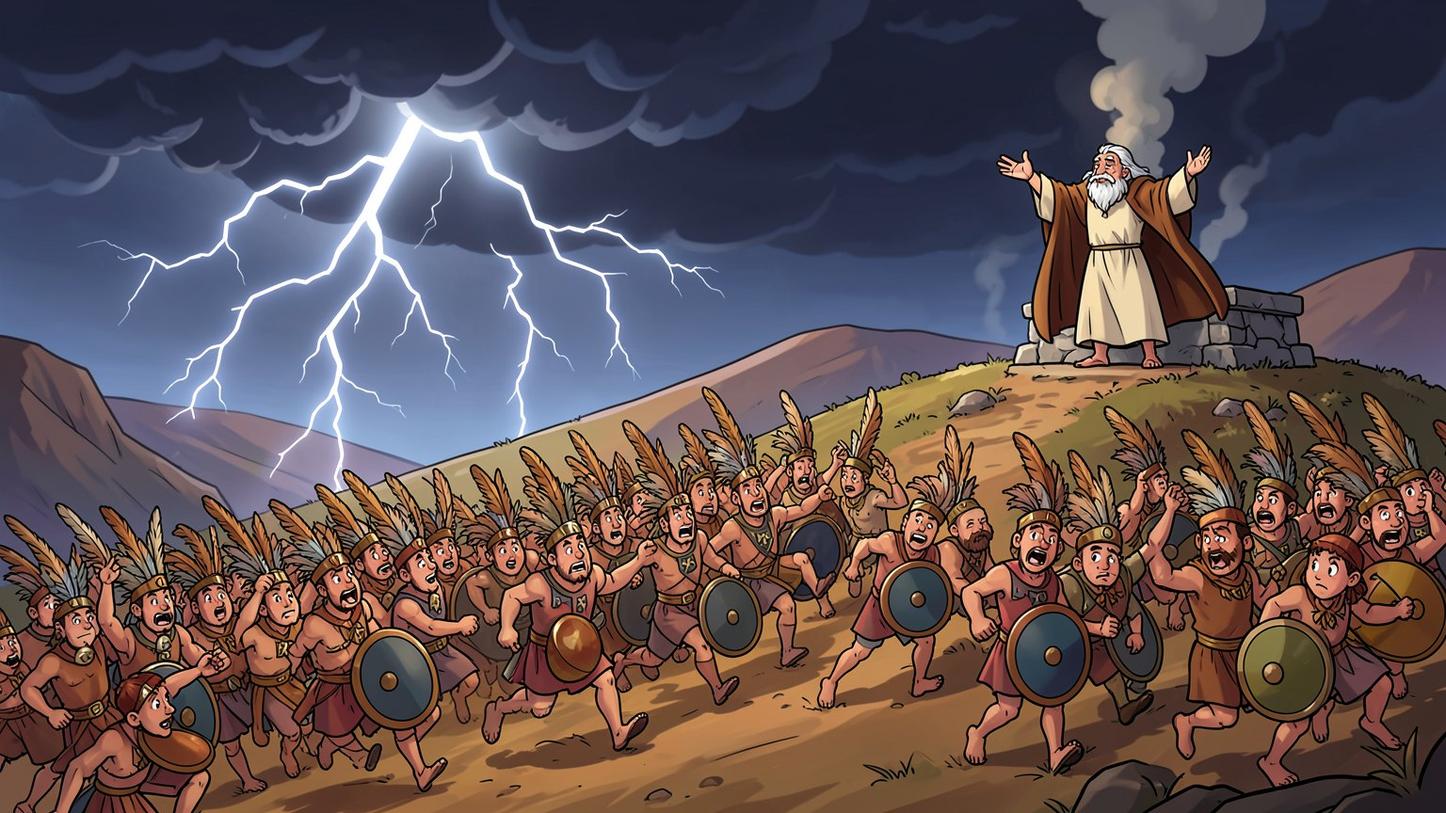
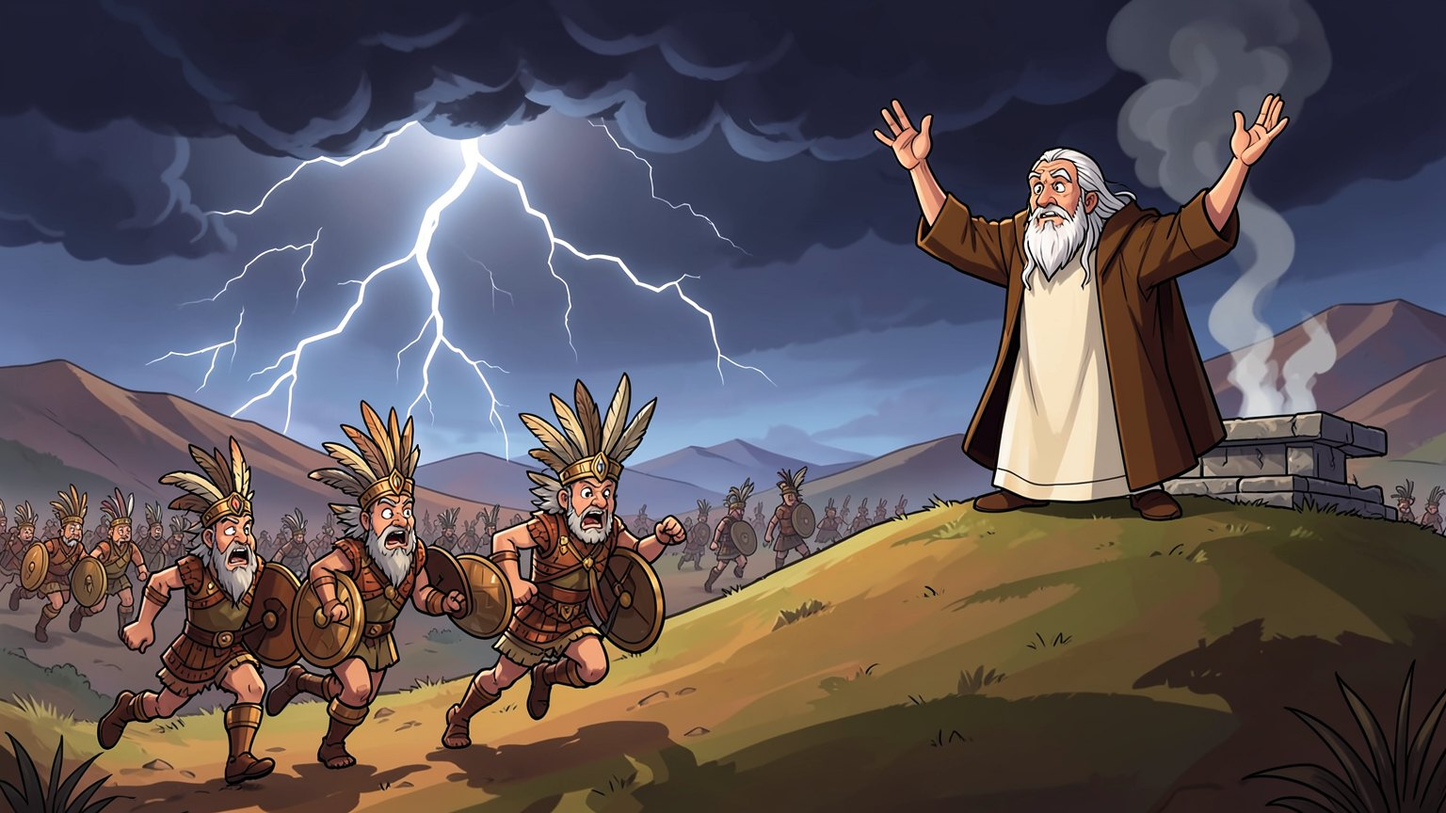
v1.11.1: 다윗을 물매의 명수이자 막는 영웅으로, 갈렙 기술 이름 맞바꾸기, 13·14 삽화 손 다시 그리기
- 다윗: 적을 셋까지 막으며 물매를 던짐(막는 중에도, 230, 하늘 가능), 가끔 '이마에!' 두 배 반, 물매와 막대기는 큰 적에게 두 배(특성 '사자와 곰도 쳤은즉'). 체력 330·방어 0.25·막대기 18. 기술 '이마에 박히매'(가장 강한 적에게 큰 돌), 수금은 아군도 회복, 여호와의 이름으로는 받는 피해 감소, 돌 다섯은 레벨에 따라 세지고 남은 돌은 가장 강한 적에게. 가드 사람 잇대는 그대로
- 같은 레벨 비교(13을 어렵게): 다윗 13.0, 갈렙 8.0, 모세 3.3 (전에는 14에서 다윗 7.7, 갈렙 14)
- 갈렙: 표적 기술 '능히 이기리라'(민 13:30), 화살비 궁극기 '이 산지를 내게 주소서'(수 14:12)
- 14 엘라 골짜기: 다윗이 세져 체력 배율 2.3, 골리앗 0.39로 다시 맞춤(탑 13개 평균 14.3, 11개 12.5)
- 삽화: 손과 팔이 이상한 8장(s13a·s13f·s13g·v13a·v13c·s14a·s14b·s14g)을 사람마다 손 자리를 정해 다시 그림
- 앱 1.11.1(22)

diff --git a/index.html b/index.html
@@ -316,7 +316,7 @@ body.force #rotate{display:none!important}
     <h1 class="logo"><span class="a">Kingdom of God</span><span class="b">Old Testament</span></h1>
     <p class="tsub">하나님의 나라 · 구약</p>
     <div class="row" style="margin-top:.6em;font-size:1.35em"><button class="btn" id="bStart">시작하기</button><button class="btn" id="bCont">계속하기</button><button class="btn wood" id="bCodexT">두루마리</button></div>
-    <p class="tnote">v1.11 · 1장 약속부터 5장 목동이 왕이 되다까지 (방주부터 엘라 골짜기까지)</p>
+    <p class="tnote">v1.11.1 · 1장 약속부터 5장 목동이 왕이 되다까지 (방주부터 엘라 골짜기까지)</p>
   </section>
   <section id="sSlots" class="scr" hidden>
     <div class="card slots"><h2 id="slotH">계속하기</h2><p class="sub" id="slotSub"></p><div id="slotList"></div><div class="row"><button class="btn" id="slotNew" hidden>새 이야기 시작</button><button class="btn wood" id="slotBack">돌아가기</button></div></div>
@@ -654,21 +654,21 @@ HEROES.joshua={name:'여호수아',line:'양치기',hp:300,armor:.25,dmg:20,rate
 HEROES.caleb={name:'갈렙',line:'파수꾼',hp:250,armor:.1,dmg:15,rate:.75,range:175,speed:88,melee:false,
   look:{skin:'#d39a68',cloth:'#6f8a4a',cloth2:'#c9a46a',head:'cloth',hc:'#efe3c4',beard:'#3a2614',item:'bow'},
   trait:{name:'정탐',ref:'민 13:17',desc:'멀리 옮기라고 하면 순식간에 달려가요.'},
-  s1:{name:'이 산지를 내게 주소서',ref:'수 14:12',cd:12,desc:'가장 강한 적에게 표적을 붙여요. 표적이 붙은 적은 받는 피해가 커져요.'},
+  s1:{name:'능히 이기리라',ref:'민 13:30',cd:12,desc:'가장 강한 적에게 표적을 붙여요. 표적이 붙은 적은 받는 피해가 커져요.'},
   s2:{name:'그들을 두려워하지 말라',ref:'민 14:9',cd:15,desc:'곁의 양치기와 문지기의 기절을 풀고, 6초 동안 곁의 탑과 병사가 더 빨리 공격해요. 그동안 곁의 탑은 북소리를 듣지 않아요.'},
   passive:{name:'여전히 강건하니',ref:'수 14:11',desc:'체력이 낮을수록 활을 더 빨리 쏴요.'},
-  ult:{name:'능히 이기리라',short:'능히<br>이기리라',ref:'민 13:30',cd:45,desc:'누른 곳에 화살비가 쏟아져 넓은 범위의 적을 여러 번 쳐요.'},
+  ult:{name:'이 산지를 내게 주소서',short:'이 산지를<br>내게 주소서',ref:'수 14:12',cd:45,desc:'누른 곳에 화살비가 쏟아져 넓은 범위의 적을 여러 번 쳐요.'},   // 10-15 사용자: 화살비가 쏟아지는 궁극기가 '이 산지를 내게 주소서'
   title:'여호와를 온전히 따른 사람 (민 14:24)',
   say:'“우리가 곧 올라가서 그 땅을 취하자 능히 이기리라”',sayRef:'민 13:30',
   man:'갈렙은 열두 정탐꾼 가운데 여호수아와 함께 하나님을 믿은 사람이에요(민 14:6–9). 하나님은 "내 종 갈렙은 그 마음이 그들과 달라서 나를 온전히 따랐은즉"이라고 하셨어요(민 14:24). 여든다섯 살에도 "이 산지를 내게 주소서" 하며 거인들이 사는 헤브론을 맡았어요(수 14:10–12).',jesus:'그나스 사람 갈렙이 유다 지파의 대표가 되었어요. 이방 사람도 하나님의 집 식구가 돼요 (민 32:12, 엡 2:19)'};
 // 다윗(양치기 영웅): 13→14 이야기에서 기름 부음을 받고 합류한다(삼상 16:13). 14 엘라 골짜기는 다윗만 나간다. 합류할 때 레벨 5("사자와 곰도 쳤은즉" 17:36)
-HEROES.david={name:'다윗',line:'양치기',hp:270,armor:.15,dmg:16,rate:.9,range:0,speed:66,melee:true,joinXp:2400,joinSk:{s1:1,s2:1,passive:2,ult:1},sling:{range:160,dmg:12,rate:1.2},
+HEROES.david={name:'다윗',line:'양치기',hp:330,armor:.25,dmg:18,rate:.9,range:0,speed:70,melee:true,joinXp:2400,joinSk:{s1:1,s2:1,passive:2,ult:1},sling:{range:230,dmg:16,rate:1.1,crit:.2,critK:2.5},block:2,   // v1.11.1: 물매의 명수이자 막는 영웅(막대기로 셋까지 막으면서 물매를 돌린다)
   look:{skin:'#e0a172',cloth:'#c9a46a',cloth2:'#8a6a42',head:'hair',hc:'#7a3e1e',item:'staff'},
-  trait:{name:'가드 사람 잇대',ref:'삼하 15:19–21',desc:'다윗이 직접 풀어 준 적은 15% 확률로 6초 동안 다윗 편에 서서 그 자리를 막아요. (보스·거인은 빼고)'},
-  s1:{name:'물매',ref:'삼상 17:40, 49',cd:10,desc:'멀리(260) 있는 가장 앞선 적에게 큰 돌을 던져 기절시켜요. 하늘의 적도 맞혀요.'},
-  s2:{name:'수금',ref:'삼상 16:23',cd:16,desc:'수금을 타면 둘레 적의 줄이 느슨해져요. 5초 동안 받는 피해가 커지고 공격이 약해져요.'},
-  passive:{name:'여호와의 이름으로',ref:'삼상 17:45',desc:'다윗은 고함에 기절하지 않아요. 2단계는 곁의 양치기·나실인·문지기·장정도, 3단계는 곁의 탑이 북소리도 듣지 않아요.'},
-  ult:{name:'매끄러운 돌 다섯',short:'매끄러운<br>돌 다섯',ref:'삼상 17:40',cd:50,desc:'가장 강한 적 다섯에게 차례로 큰 돌을 던져요.'},
+  trait:{name:'사자와 곰도 쳤은즉',ref:'삼상 17:34–36',desc:'막대기로 적을 셋까지 함께 막으면서 물매를 멀리(230) 던져요. 하늘의 적도 맞혀요. 물매와 막대기는 큰 적(거인·보스·낙타 기병·방패 든 자 같은)에게 두 배로 들어가고, 물맷돌은 다섯 번에 한 번쯤 이마에 박혀 두 배 반이 들어가요. 다윗이 직접 풀어 준 적은 가끔 6초 동안 다윗 편에 서서 막아요(가드 사람 잇대, 삼하 15:19–21).'},
+  s1:{name:'이마에 박히매',ref:'삼상 17:49',cd:10,desc:'멀리(300) 있는 가장 강한 적에게 큰 돌을 던져 큰 피해를 주고 기절시켜요(보스는 잠깐). 하늘의 적도 맞혀요.'},
+  s2:{name:'수금',ref:'삼상 16:23',cd:14,desc:'수금을 타면 둘레 아군이 낫고, 둘레 적의 줄이 느슨해져요. 5초 동안 적이 받는 피해가 커지고 공격이 약해져요.'},
+  passive:{name:'여호와의 이름으로',ref:'삼상 17:45',desc:'다윗은 고함에 기절하지 않고 받는 피해가 15% 줄어요(단계마다 더). 2단계는 곁의 양치기·나실인·문지기·장정도 고함에 기절하지 않고, 3단계는 곁의 탑이 북소리도 듣지 않아요.'},
+  ult:{name:'매끄러운 돌 다섯',short:'매끄러운<br>돌 다섯',ref:'삼상 17:40',cd:50,desc:'가장 강한 적 다섯에게 차례로 큰 돌을 던져요. 적이 다섯보다 적으면 남은 돌은 가장 강한 적에게 가요.'},
   title:'하나님의 마음에 맞는 사람 (행 13:22)',
   say:'“주의 종이 가서 저 블레셋 사람과 싸우리이다”',sayRef:'삼상 17:32',
   man:'하나님은 다윗을 "내 마음에 맞는 사람"이라 하셨어요(행 13:22). 사람들은 키와 용모를 보았지만 하나님은 중심을 보셨어요(삼상 16:7). 다윗은 자기 힘이 아니라 사자와 곰의 발톱에서 건지신 하나님을 의지했고(17:37), 훗날 큰 죄를 지었을 때 숨기지 않고 회개했어요(시 51).',jesus:'예수님은 다윗의 자손으로 오셨어요(마 1:1). 다윗이 온 이스라엘을 대신해 혼자 싸웠듯이 예수님은 우리 대신 싸워 이기신 참 다윗이에요 (히 2:14–15)'};
@@ -1159,7 +1159,7 @@ const STAGES={
         {art:'v13b',dur:6.5,title:'에벤에셀',verse:'사무엘이 돌을 취하여 미스바와 센 사이에 세워 이르되 여호와께서 여기까지 우리를 도우셨다 하고 그 이름을 에벤에셀이라 하니라 (삼상 7:12)',fx:'rays',snd:'event'},
         {art:'v13c',dur:6.5,title:'여호와의 손이 막으시매',verse:'여호와의 손이 사무엘이 사는 날 동안에 블레셋 사람을 막으시매 (삼상 7:13)',px:1,fx:'sparkle',snd:'victory'}]}},
   // 14 ★ 엘라 골짜기(삼상 17, 기획서 '14 엘라 골짜기 설계안'): 18번째 무리까지 골리앗은 결투터에서 18초마다 고함(17:16): 둘레 양치기 기절과 밤의 공포 둘 → 요나단의 활(삼하 1:22) → 19무리에 돌 다섯(17:40)과 골리앗·방패 든 자(17:41) → 엎드러지면 모든 줄이 끊어진다
-  14:{id:14,name:'엘라 골짜기',chap:'5장 · 목동이 왕이 되다',ref:'삼상 17',night:false,gold:1200,cap:4,heroes:['david'],hpMul:2.0,hpMulBy:{giant:.8,shield:.85,goliath:.5},dmgMul:1.8,gapT:20,skin:'philistine',   // v1.11 균형: 골리앗은 여울에서 진영까지 짧게 걸으므로 체력 1500(×2×.5)
+  14:{id:14,name:'엘라 골짜기',chap:'5장 · 목동이 왕이 되다',ref:'삼상 17',night:false,gold:1200,cap:4,heroes:['david'],hpMul:2.3,hpMulBy:{giant:.8,shield:.85,goliath:.39},dmgMul:1.8,gapT:20,skin:'philistine',   // v1.11.1 균형(다윗 강화 뒤): 골리앗은 여울에서 진영까지 짧게 걸으므로 체력 1350쯤(×2.3×.39)
     elah:{station:[740,560],ford:[620,412],gap:18,gap2:9,R:210,R2:160,stun:1.6,fearN:2,fearBoss:1,windup:1.5,riseT:1.6,waitT:6,
       jon:{x:522,y:272,range:250,rate:1,dmg:26},   // 그림(bg14 시드 1)의 시냇가 오른쪽 바위 위
       israel:[[178,334],[212,326],[246,338],[280,330],[314,342],[194,364],[228,356],[262,368],[296,360]],   // 이스라엘 전열(무장한 선봉 그림)
@@ -1226,8 +1226,8 @@ const CODEX=[
   {cat:'탑',name:'성막 문지기',k:'제사장 기술',verse:'악인의 장막에 사는 것보다 내 하나님의 성전 문지기로 있는 것이 좋사오니 (시 84:10)',desc:'제사장이 길에 세우는 풍채 좋은 문지기예요. 적을 막아서고, 쓰러지면 잠시 뒤 다시 서요. 3단계가 되면 한꺼번에 둘을 막아요. 눌러서 옮길 수 있어요.',deep:'문지기도 레위 사람이었고, 반열을 따라 성막 문을 지켰어요(대상 9:23, 26). 문지기 가운데는 용사가 많았다고 기록해요(대상 26:6). 하나님의 집 문을 지키는 것도 예배의 섬김이었어요. 게임의 문지기는 불러낸 것이 아니라 제사장이 세운 사람이에요.'},
   {cat:'하나님의 사람',name:'노아',k:'장인 영웅',verse:'노아는 여호와께 은혜를 입었더라 (창 6:8)',desc:'고페르 나무 방벽, 역청, 비둘기, 짐승들이 둘씩.',deep:HEROES.noah.man+' 예수님 찾기: '+HEROES.noah.jesus+'.'},
   {cat:'하나님의 사람',name:'모세',k:'레위인 영웅',verse:'모세가 손을 들면 이스라엘이 이기고 (출 17:11)',desc:'빛나는 얼굴, 반석의 물, 놋뱀, 손을 들다.',deep:HEROES.moses.man+' 예수님 찾기: '+HEROES.moses.jesus+'.'},
-  {cat:'하나님의 사람',name:'갈렙',k:'파수꾼 영웅 · 8 에드레이',verse:'내 종 갈렙은 그 마음이 그들과 달라서 나를 온전히 따랐은즉 (민 14:24)',desc:'정탐, 이 산지를 내게 주소서, 그들을 두려워하지 말라, 여전히 강건하니, 능히 이기리라.',deep:HEROES.caleb.man+' 예수님 찾기: '+HEROES.caleb.jesus+'.'},
-  {cat:'하나님의 사람',name:'다윗',k:'양치기 영웅 · 14 엘라 골짜기',verse:'내가 이새의 아들 다윗을 만나니 내 마음에 맞는 사람이라 내 뜻을 다 이루리라 (행 13:22)',desc:'가드 사람 잇대, 물매, 수금, 여호와의 이름으로, 매끄러운 돌 다섯.',deep:HEROES.david.man+' 예수님 찾기: '+HEROES.david.jesus+'.'},
+  {cat:'하나님의 사람',name:'갈렙',k:'파수꾼 영웅 · 8 에드레이',verse:'내 종 갈렙은 그 마음이 그들과 달라서 나를 온전히 따랐은즉 (민 14:24)',desc:'정탐, 능히 이기리라, 그들을 두려워하지 말라, 여전히 강건하니, 이 산지를 내게 주소서.',deep:HEROES.caleb.man+' 예수님 찾기: '+HEROES.caleb.jesus+'.'},
+  {cat:'하나님의 사람',name:'다윗',k:'양치기 영웅 · 14 엘라 골짜기',verse:'내가 이새의 아들 다윗을 만나니 내 마음에 맞는 사람이라 내 뜻을 다 이루리라 (행 13:22)',desc:'사자와 곰도 쳤은즉(물매의 명수), 이마에 박히매, 수금, 여호와의 이름으로, 매끄러운 돌 다섯.',deep:HEROES.david.man+' 예수님 찾기: '+HEROES.david.jesus+'.'},
   {cat:'하나님의 사람',name:'여호수아',k:'7 르비딤 영웅 · 9 여리고 · 10 기브온',verse:'모세가 여호수아에게 이르되 우리를 위하여 사람들을 택하여 나가서 아말렉과 싸우라 (출 17:9)',desc:'칼날로, 강하고 담대하라, 모세의 수종자, 여호와 닛시.',deep:HEROES.joshua.man+' 예수님 찾기: '+HEROES.joshua.jesus+'.'},
   {cat:'하나님의 사람',name:'연단',k:'영웅 성장',verse:'환난은 인내를, 인내는 연단을, 연단은 소망을 이루는 줄 앎이로다 (롬 5:3–4)',desc:'영웅은 싸울수록 경험이 쌓여 연단돼요. 레벨이 오르면 연단 점수를 받고, 싸움을 마친 뒤 지도의 연단 화면에서 기술을 키우거나 언제든 다시 배치할 수 있어요.',deep:'연단은 영웅이 스스로를 높이는 일이 아니라 하나님이 사람을 빚어 가시는 과정이에요. "너희 믿음의 확실함은 불로 연단하여도 없어질 금보다 더 귀하여"(벧전 1:7).'},
   {cat:'하나님의 사람',name:'아브람',k:'2·3 스테이지',verse:'아브람이 여호와를 믿으니 여호와께서 이를 그의 의로 여기시고 (창 15:6)',desc:'갈 바를 알지 못했지만 말씀을 따라 길을 떠난 사람이에요(히 11:8).',deep:'아브람이 의롭다 여김을 받은 건 공로가 아니라 믿음 때문이었어요. 바울은 이 구절로 은혜의 구원을 설명해요(롬 4:3–5).'},
@@ -1938,13 +1938,13 @@ function loseLives(n){if(G.over)return;G.lives=Math.max(0,G.lives-n);Snd.play('l
 function hurt(e,dmg,type,src){
   if(!alive(e))return;
   let m=1;if(type==='phys')m=1-(e.def.armor||0);else if(type==='holy')m=1-(e.def.mres||0);else if(type==='holyP')m=1-(e.def.mres||0)*2/3;
-  if(e.vuln>0)m*=1+(e.vulnK||.25);if(e.mark>0)m*=1+e.markK;   // 갈렙의 표적(수 14:12)
+  if(e.vuln>0)m*=1+(e.vulnK||.25);if(e.mark>0)m*=1+e.markK;   // 갈렙의 표적(민 13:30)
   if(e.type==='goliath'&&goliathShielded())m*=.5;   // 방패 든 자가 앞서 행하더라(삼상 17:7)
   let amt=dmg*m;
   if(e.shield>0){const a=Math.min(e.shield,amt);e.shield-=a;amt-=a;}
   e.hp-=amt;e.hitT=.12;
   if(e.type==='pharaoh'&&amt>0){e.hard.acc+=amt;if(e.hard.acc>=e.maxHp*.14&&e.hard.cd<=0&&e.hp>0){e.shield=e.maxHp*.07;e.hard.acc=0;e.hard.cd=9;Snd.play('shield');if(!G.hardTold){G.hardTold=true;toast('<b>완악한 마음</b><br>바로의 마음이 다시 완악해졌어요. 보호막은 한꺼번에 몰아쳐서 깨세요. (출 8:15)',6);}}}
-  if(src==='hero'&&amt>0)gainXP(Math.min(amt,e.hp+amt)*.4);
+  if(src==='hero'&&amt>0){G.hdmg=(G.hdmg||0)+Math.min(amt,e.hp+amt);gainXP(Math.min(amt,e.hp+amt)*.4);}   // G.hdmg: 영웅이 준 피해(균형 재기)
   if(e.hp<=0){freeEnemy(e);if(src==='hero'){gainXP(e.def.bounty*2);ittai(e);}}
 }
 function freeEnemy(e){
@@ -2043,7 +2043,7 @@ function mosesGuard(x,y){const h=G.hero;return h&&h.kind==='moses'&&h.state==='o
 function inRefuge(x,y){for(const z of G.zones)if(d2(x,y,z.x,z.y)<z.r*z.r)return true;return false;}
 const ENEMY_DMG=2.2;   // 막아선 병사·영웅이 실제로 쓰러질 만큼(10-11 사용자: 대치하다가 쓰러지지 않아 긴장감이 없다)
 function hitBlocker(b,dmg){
-  let m=1-(b.armor||0);{const gk=mosesGuard(b.x,b.y);if(gk)m*=gk;}if(b.role==='hero'&&b.kind==='joshua'&&G.hill&&G.hill.up)m*=.8;if(b.tw&&b.tw.line==='shep'&&has('shep',5)&&b.hp<b.max/3)m*=.7;const a=dmg*m*ENEMY_DMG*(G.S.dmgMul||1);b.hitT=.12;
+  let m=1-(b.armor||0);{const gk=mosesGuard(b.x,b.y);if(gk)m*=gk;}if(b.role==='hero'&&b.kind==='joshua'&&G.hill&&G.hill.up)m*=.8;if(b.role==='hero'&&b.kind==='david')m*=[1,.85,.78,.7][b.sk.passive||0];if(b.tw&&b.tw.line==='shep'&&has('shep',5)&&b.hp<b.max/3)m*=.7;const a=dmg*m*ENEMY_DMG*(G.S.dmgMul||1);b.hitT=.12;
   if(b.role==='unit'&&inRefuge(b.x,b.y)){b.hp=Math.max(1,b.hp-a);return;}
   b.hp-=a;if(b.hp<=0)blockerDown(b);
 }
@@ -2186,6 +2186,7 @@ function updProjs(dt){
     if(Ld<=st+4){p.done=true;
       if(tg&&alive(tg))hurt(tg,p.dmg,(p.k==='arrow'||p.k==='sling'||p.k==='harrow'||p.k==='snipe'||p.k==='hsling'||p.k==='hstone')?'phys':p.pierce?'holyP':'holy',p.k==='hbolt'||p.k==='harrow'||p.k==='hsling'||p.k==='hstone'?'hero':null);
       if(p.k==='hstone'){Snd.play('stoneHit');if(tg&&alive(tg)){const st=tg.def.boss?p.stunB:p.stun;if(st)tg.stun=Math.max(tg.stun,st);}}
+      if(p.k==='hsling'&&p.crit){Snd.play('stoneHit');floatText(p.x,p.y-30,'이마에!','#ffe9a8',12);if(tg&&alive(tg)&&!tg.def.boss)tg.stun=Math.max(tg.stun,.5);}   // 물맷돌이 이마에 박히매(삼상 17:49)
       if(p.k==='snipe')snipeHit(p,tg);
       if(p.k==='bolt'&&tg&&alive(tg)&&!tg.def.boss){tg.slowF=tg.slowT>0?Math.min(tg.slowF,.7):.7;tg.slowT=Math.max(tg.slowT,1.2);tg.lslow=1.2;}   // 레위인 빛살을 맞으면 잠깐 느려진다
       const holy=p.k==='bolt'||p.k==='hbolt';for(let i=0;i<(holy?6:3);i++)part('spark',p.tx,p.ty,rand(-60,60),rand(-60,30),.35,holy?'#fff3b0':'#ffffff',2);
@@ -2285,30 +2286,31 @@ function updHero(dt){
   h.swCd=Math.max(0,(h.swCd||0)-dt);
   if(tg&&h.D.melee&&h.swCd<=0){const cr=remaining(tg);let sw=null,sr=cr-(tg.state==='fight'?150:90);for(const e of G.enemies){if(!alive(e)||!e.def.block||e.blockedBy||e.state!=='walk')continue;if(d2(e.x,e.y,h.x,h.y)>108*108)continue;const rm=remaining(e);if(rm<sr){sr=rm;sw=e;}}if(sw){dropTarget(h);tg=null;h.swCd=2.5;}}
   if(!tg){const r=h.D.melee?108:42;let best=null,bd=1e9;for(const e of G.enemies){if(!alive(e)||!e.def.block||e.blockedBy)continue;if(d2(e.x,e.y,h.x,h.y)>r*r)continue;const sc=remaining(e)+Math.sqrt(d2(e.x,e.y,h.x,h.y))*.5;if(sc<bd){bd=sc;best=e;}}if(best){h.target=tg=best;best.blockedBy=h;h.side=Math.sign(h.x-best.x)||best.dir;}}
-  if(tg&&h.D.melee){h.extra=(h.extra||[]).filter(x=>alive(x)&&x.blockedBy===h);const cap=h.lv>=4?2:1;
+  if(tg&&h.D.melee){h.extra=(h.extra||[]).filter(x=>alive(x)&&x.blockedBy===h);const cap=h.D.block||(h.lv>=4?2:1);
     for(const x of h.extra)if(d2(x.x,x.y,h.x,h.y)>110*110){x.blockedBy=null;if(x.state==='fight')x.state='walk';}h.extra=h.extra.filter(x=>x.blockedBy===h);
     if(h.extra.length<cap)for(const e of G.enemies){if(h.extra.length>=cap)break;if(e===tg||!alive(e)||!e.def.block||e.blockedBy||e.state!=='walk')continue;if(d2(e.x,e.y,h.x,h.y)<46*46){e.blockedBy=h;h.extra.push(e);}}}
   if(!tg&&h.extra&&h.extra.length){const n=h.extra.shift();h.target=tg=n;h.side=Math.sign(h.x-n.x)||n.dir;}
   if(tg){const gx=tg.x+h.side*18,gy=tg.y+1,dx=gx-h.x,dy=gy-h.y,Ld=Math.hypot(dx,dy);if(Ld>3){const st=Math.min(Ld,h.D.speed*1.5*dt);h.x+=dx/Ld*st;h.y+=dy/Ld*st;if(Math.abs(dx)>1.5)h.dir=dx>=0?1:-1;}
-    if(tg.state==='fight'&&Ld<10){h.dir=tg.x>=h.x?1:-1;h.atkCd-=dt;if(h.atkCd<=0){h.atkCd=h.D.rate;hurt(tg,h.D.melee?h.dmg:h.dmg*.6,'phys','hero');Snd.play('hit');}}}
+    if(tg.state==='fight'&&Ld<10){h.dir=tg.x>=h.x?1:-1;h.atkCd-=dt;if(h.atkCd<=0){h.atkCd=h.D.rate;hurt(tg,(h.D.melee?h.dmg:h.dmg*.6)*(h.kind==='david'&&isBig(tg)?2:1),'phys','hero');/* 사자와 곰도 쳤은즉(삼상 17:34–36): 다윗의 막대기는 큰 적에게 두 배 */Snd.play('hit');}}}
   else if(!h.D.melee){h.atkCd-=dt;if(h.atkCd<=0){const e=findTarget(h.x,h.y,h.D.range,true);if(e){h.dir=e.x>=h.x?1:-1;h.cast=.25;
       if(h.kind==='caleb'){h.atkCd=h.D.rate/(1+[0,.2,.35,.5][h.sk.passive||0]*(1-h.hp/h.max));G.projs.push({k:'harrow',x:h.x+h.dir*10,y:h.y-40,tx:e.x,ty:e.y,tg:e,sp:760,dmg:h.dmg});Snd.play('arrow');}   // 여전히 강건하니(수 14:11)
       else{h.atkCd=h.D.rate;G.projs.push({k:'hbolt',x:h.x+h.dir*10,y:h.y-44,tx:e.x,ty:e.y,tg:e,sp:560,dmg:h.dmg});Snd.play('holy');}}else h.atkCd=.2;}}
-  if(!tg&&h.kind==='david')davidSling(h,dt);
+  if(h.kind==='david')davidSling(h,dt);   // 막대기로 막으면서도 물매를 돌린다
   const busy=tg||(!h.D.melee&&findTarget(h.x,h.y,h.D.range,true))||(h.kind==='david'&&findTarget(h.x,h.y-10,h.D.sling.range,true));   // 싸움이 없으면 1초 뒤 지킬 자리(처음 자리나 옮겨 준 곳)로 걸어서 돌아간다
   h.calm=busy?0:h.calm+dt;h.going=false;
   if(h.calm>1&&!(h.kind==='moses'&&G.hands>0)){const dx=h.px-h.x,dy=h.py-h.y,Ld=Math.hypot(dx,dy);if(Ld>4){const st=Math.min(Ld,h.D.speed*dt);h.x+=dx/Ld*st;h.y+=dy/Ld*st;if(Math.abs(dx)>1.5)h.dir=dx>=0?1:-1;h.going=true;h.idle=0;}}
   if(h.kind==='noah'&&!h.bar&&h.barCd<=0&&h.idle>3){const n=nearestAll(h.x,h.y);if(n&&n.dd<100*100){const q=at(G.paths[n.pi],Math.max(0,n.d-34));const b=mkUnit({role:'bar',x:q.x,y:q.y,hp:150,max:150,armor:.3});G.units.push(b);h.bar=b;for(let i=0;i<8;i++)part('dust',q.x+rand(-12,12),q.y,rand(-20,20),rand(-30,-5),.6,'rgba(160,110,60,',4);Snd.play('build');}else h.barCd=1;}
   heroSkills(h);
 }
-// 다윗: 막고 있지 않을 때는 물매로 멀리 친다(하늘의 적도). 물매(삼상 17:40, 49) · 수금(16:23)
-function davidSling(h,dt){h.slCd=(h.slCd||0)-dt;if(h.slCd>0)return;const e=findTarget(h.x,h.y-10,h.D.sling.range,true);if(!e){h.slCd=.25;return;}h.slCd=h.D.sling.rate;h.dir=e.x>=h.x?1:-1;h.cast=.25;G.projs.push({k:'hsling',x:h.x+h.dir*8,y:h.y-30,tx:e.x,ty:aimY(e),tg:e,sp:560,dmg:h.D.sling.dmg*h.dmg/h.D.dmg});Snd.play('sling');}
+// 다윗: 막대기로 막으면서 물매로 멀리 친다(하늘의 적도). 다섯 번에 한 번쯤 이마에 박힌다(삼상 17:40, 49) · 수금(16:23)
+function davidSling(h,dt){h.slCd=(h.slCd||0)-dt;if(h.slCd>0)return;const S2=h.D.sling,e=findTarget(h.x,h.y-10,S2.range,true);if(!e){h.slCd=.25;return;}h.slCd=S2.rate;if(!h.target)h.dir=e.x>=h.x?1:-1;h.cast=.25;const crit=Math.random()<S2.crit;G.projs.push({k:'hsling',x:h.x+h.dir*8,y:h.y-30,tx:e.x,ty:aimY(e),tg:e,sp:600,dmg:S2.dmg*h.dmg/h.D.dmg*(crit?S2.critK:1)*(isBig(e)?2:1),crit});Snd.play('sling');}
 function davidSkills(h){const L2=h.sk;
-  if(L2.s1>0&&h.s1<=0){const e=findTarget(h.x,h.y-10,260,true);if(e){G.projs.push({k:'hstone',x:h.x+h.dir*8,y:h.y-34,tx:e.x,ty:aimY(e),tg:e,sp:640,dmg:[0,35,55,75][L2.s1]*h.dmg/h.D.dmg,stun:[0,1,1.5,2][L2.s1],stunB:.3});h.s1=HEROES.david.s1.cd;h.cast=.3;Snd.play('slingWhirl');floatText(h.x,h.y-74,'물매','#ffe9a8',13);}}
-  if(L2.s2>0&&h.s2<=0){const R=[0,120,135,150][L2.s2],hit=G.enemies.filter(e=>alive(e)&&d2(e.x,e.y,h.x,h.y)<R*R);if(hit.length){for(const e of hit){e.vuln=5;e.vulnK=[0,.15,.25,.35][L2.s2];e.weak=5;if(e.type==='saul')e.stun=Math.max(e.stun,[0,1,1.5,2][L2.s2]);}h.s2=HEROES.david.s2.cd;h.cast=.4;fxRing(h.x,h.y,R,'255,236,170');G.fx.push({k:'harp',x:h.x,y:h.y-46,t:0,life:1.4});floatText(h.x,h.y-74,'수금','#ffe9a8',13);Snd.play('harp');}}}
-// 매끄러운 돌 다섯(삼상 17:40): 가장 강한 적 다섯에게 0.3초 간격으로 큰 돌(보스는 피해만)
-function davidUlt(h){const list=G.enemies.filter(e=>alive(e)&&e.x>0&&e.x<W&&e.y>0&&e.y<H).sort((a,b)=>b.maxHp-a.maxHp).slice(0,5);if(!list.length){Snd.play('deny');return;}const lv=h.sk.ult||1;h.ult=h.D.ult.cd;Snd.play('ult');floatText(h.x,h.y-90,'매끄러운 돌 다섯','#fff1c2',18);
-  list.forEach((e,i)=>later(i*.3,()=>{const hh=G&&G.hero;if(!hh||!alive(e))return;G.projs.push({k:'hstone',big:true,x:hh.x+hh.dir*8,y:hh.y-34,tx:e.x,ty:aimY(e),tg:e,sp:720,dmg:[0,110,150,200][lv],stun:.8,stunB:0});Snd.play('slingWhirl');}));}
+  if(L2.s1>0&&h.s1<=0){let e=null,bh=0;for(const o of G.enemies){if(!alive(o)||o.d<10||d2(o.x,o.y,h.x,h.y)>300*300)continue;if(o.hp>bh){bh=o.hp;e=o;}}   // 이마에 박히매(삼상 17:49): 가장 강한 적
+    if(e){G.projs.push({k:'hstone',x:h.x+h.dir*8,y:h.y-34,tx:e.x,ty:aimY(e),tg:e,sp:680,dmg:[0,45,70,100][L2.s1]*h.dmg/h.D.dmg,stun:[0,1.5,2,2.5][L2.s1],stunB:.5});h.s1=HEROES.david.s1.cd;h.cast=.3;Snd.play('slingWhirl');floatText(h.x,h.y-74,'이마에 박히매','#ffe9a8',13);}}
+  if(L2.s2>0&&h.s2<=0){const R=[0,120,135,150][L2.s2],hit=G.enemies.filter(e=>alive(e)&&d2(e.x,e.y,h.x,h.y)<R*R);if(hit.length||anyHurt(h.x,h.y,R)){healAround(h.x,h.y,R,[0,40,60,90][L2.s2]);/* 사울이 상쾌하여 낫고(삼상 16:23) */for(const e of hit){e.vuln=5;e.vulnK=[0,.15,.25,.35][L2.s2];e.weak=5;if(e.type==='saul')e.stun=Math.max(e.stun,[0,1,1.5,2][L2.s2]);}h.s2=HEROES.david.s2.cd;h.cast=.4;fxRing(h.x,h.y,R,'255,236,170');G.fx.push({k:'harp',x:h.x,y:h.y-46,t:0,life:1.4});floatText(h.x,h.y-74,'수금','#ffe9a8',13);Snd.play('harp');}}}
+// 매끄러운 돌 다섯(삼상 17:40): 가장 강한 적 다섯에게 0.3초 간격으로 큰 돌(보스는 피해만). 다섯보다 적으면 남은 돌은 가장 강한 적에게
+function davidUlt(h){const list=G.enemies.filter(e=>alive(e)&&e.x>0&&e.x<W&&e.y>0&&e.y<H).sort((a,b)=>b.hp-a.hp).slice(0,5);if(!list.length){Snd.play('deny');return;}while(list.length<5)list.push(list[0]);const lv=h.sk.ult||1;h.ult=h.D.ult.cd;Snd.play('ult');floatText(h.x,h.y-90,'매끄러운 돌 다섯','#fff1c2',18);
+  list.forEach((e,i)=>later(i*.3,()=>{const hh=G&&G.hero;if(!hh||!alive(e))return;G.projs.push({k:'hstone',big:true,x:hh.x+hh.dir*8,y:hh.y-34,tx:e.x,ty:aimY(e),tg:e,sp:720,dmg:[0,110,150,200][lv]*hh.dmg/hh.D.dmg,stun:.8,stunB:0});Snd.play('slingWhirl');}));}
 function heroSkills(h){
   if(h.state!=='ok')return;
   if(h.kind==='david'){davidSkills(h);return;}
@@ -2317,8 +2319,8 @@ function heroSkills(h){
     if(h.s2<=0&&G.enemies.some(e=>alive(e)&&d2(e.x,e.y,h.x,h.y)<220*220)){G.brave={x:h.x,y:h.y,t:6};h.s2=HEROES.joshua.s2.cd;floatText(h.x,h.y-70,'강하고 담대하라','#ffe9a8',15);Snd.play('event');}
     return;}
   if(h.kind==='caleb'){const L=h.sk;
-    if(L.s1>0&&h.s1<=0){let best=null,bh=0;for(const e of G.enemies){if(!alive(e)||d2(e.x,e.y,h.x,h.y)>320*320)continue;if(e.maxHp>bh){bh=e.maxHp;best=e;}}   // 이 산지를 내게 주소서(수 14:12): 가장 강한 적에게 표적
-      if(best){best.mark=7;best.markK=[0,.25,.35,.5][L.s1];h.s1=HEROES.caleb.s1.cd;h.cast=.3;floatText(best.x,best.y-70,'이 산지를 내게 주소서','#ffd27a',13);Snd.play('event');}}
+    if(L.s1>0&&h.s1<=0){let best=null,bh=0;for(const e of G.enemies){if(!alive(e)||d2(e.x,e.y,h.x,h.y)>320*320)continue;if(e.maxHp>bh){bh=e.maxHp;best=e;}}   // 능히 이기리라(민 13:30): 가장 강한 적에게 표적
+      if(best){best.mark=7;best.markK=[0,.25,.35,.5][L.s1];h.s1=HEROES.caleb.s1.cd;h.cast=.3;floatText(best.x,best.y-70,'능히 이기리라','#ffd27a',13);Snd.play('event');}}
     if(L.s2>0&&h.s2<=0){const R=210,fear=G.units.filter(u=>u.state==='ok'&&u.stun>0&&d2(u.x,u.y,h.x,h.y)<R*R);   // 그들을 두려워하지 말라(민 14:9)
       if(fear.length||G.enemies.some(e=>alive(e)&&d2(e.x,e.y,h.x,h.y)<R*R)){for(const u of fear)u.stun=0;G.brave={x:h.x,y:h.y,t:6,r:R,mul:1+[0,.2,.3,.4][L.s2]};h.s2=HEROES.caleb.s2.cd;fxRing(h.x,h.y,R,'255,236,170');floatText(h.x,h.y-74,'그들을 두려워하지 말라','#ffe9a8',14);Snd.play('heal');}}
     return;}
@@ -2363,8 +2365,8 @@ function updStamp(dt){
   for(const e of G.enemies){if(!alive(e)||e.def.fly||s.hit.has(e))continue;if(d2(e.x,e.y,fp.x,fp.y)<46*46){s.hit.add(e);hurt(e,[0,32,48,66][s.lv||1],'true','hero');if(alive(e)&&!e.def.boss){releaseFrom(e);e.state='walk';e.d=Math.max(0,e.d-60);e.stun=[0,1.4,1.7,2][s.lv||1];}}}
   if(s.t>[0,2.4,2.8,3.2][s.lv||1]||front<=0)G.stamp=null;
 }
-// 능히 이기리라(민 13:30): 누른 곳에 화살비가 여러 번 쏟아진다
-function castRain(x,y){const lv=G.hero.sk.ult||1;G.rains.push({x,y,t:0,next:.35,n:0,max:8,r:[0,110,125,140][lv],dmg:[0,20,28,38][lv]});G.hero.ult=G.hero.D.ult.cd;Snd.play('ult');floatText(x,y-100,'능히 이기리라','#fff1c2',18);return true;}
+// 이 산지를 내게 주소서(수 14:12): 누른 곳에 화살비가 여러 번 쏟아진다
+function castRain(x,y){const lv=G.hero.sk.ult||1;G.rains.push({x,y,t:0,next:.35,n:0,max:8,r:[0,110,125,140][lv],dmg:[0,20,28,38][lv]});G.hero.ult=G.hero.D.ult.cd;Snd.play('ult');floatText(x,y-100,'이 산지를 내게 주소서','#fff1c2',18);return true;}
 function updRains(dt){for(const r of G.rains){r.t+=dt;if(r.t>=r.next&&r.n<r.max){r.n++;r.next+=.25;for(const e of G.enemies)if(alive(e)&&d2(e.x,e.y,r.x,r.y)<r.r*r.r)hurt(e,r.dmg*G.hero.dmg/HEROES.caleb.dmg,'phys','hero');Snd.play('arrow');}}G.rains=G.rains.filter(r=>r.t<r.max*.25+.8);}
 function drawRains(c){for(const r of G.rains){const a=Math.min(1,r.t*4,(r.max*.25+.8-r.t)*2);c.save();c.globalAlpha=a*.25;E(c,r.x,r.y,r.r,r.r*.45);c.fillStyle='rgba(255,230,170,.6)';c.fill();c.globalAlpha=a;c.strokeStyle='#5a3a22';c.lineWidth=1.6;
   for(let i=0;i<26;i++){const ph=((r.t*2.4+i*.137)%1),ox=Math.sin(i*12.9)*r.r*.9,oy=Math.cos(i*7.7)*r.r*.4,x=r.x+ox-30*(1-ph),y=r.y+oy-180*(1-ph);L(c,x,y,x+5,y+14);}c.restore();}}
@@ -2521,7 +2523,7 @@ const ART_DEF={
   shep1:{h:62,top:.5},shep2:{h:68,top:.5},shep3:{h:74,top:.5},art1:{h:76,top:.7},art2:{h:82,top:.72},art3:{h:88,top:.74},
 };
 const ART={};
-const AV='?v=20';   // 그림을 바꿀 때마다 올려서 예전 그림이 캐시에서 나오지 않게
+const AV='?v=21';   // 그림을 바꿀 때마다 올려서 예전 그림이 캐시에서 나오지 않게
 const BG_IMG={},REAR_IMG={},FALL_IMG={};   // REAR_IMG: 처음엔 막혀 있는 뒷길을 덮는 그림(bgN_rear.png) · FALL_IMG: 성벽이 무너진 배경(bg9_fall.jpg, 수 6:20)
 function loadArt(){for(const k of Object.keys(STAGES).map(Number)){const im=new Image();im.onload=()=>{BG_IMG[k]=im;if(G&&G.sid===k)buildBg();};im.src='art/bg'+k+'.jpg'+AV;if(STAGES[k].rear!=null){const r=new Image();r.onload=()=>{REAR_IMG[k]=r;if(G&&G.sid===k)buildBg();};r.src='art/bg'+k+'_rear.png'+AV;}
     if(STAGES[k].jericho){const f=new Image();f.onload=()=>{FALL_IMG[k]=f;};f.src='art/bg'+k+'_fall.jpg'+AV;}}
@@ -3268,7 +3270,7 @@ function selHtml(T){const o=T.o,r=Math.round;
       if(t.branch==='jordan'&&t.sk.draw>0)extra=ch('atk','바로 풀어 줌',Math.round(JORDAN.draw[t.sk.draw]*100)+'%');
       return`<div class="r1"><span class="nm">${B.name}${t.nm?` ${t.nm}`:''}</span><span class="tag">${L2.name} 4단계</span>${bd}</div><div class="chips">${ch((t.line==='art'&&t.branch!=='menorah')||t.branch==='jordan'?'atk':'holy','공격',r(st.s.dmg*st.dm))}${ch('rate','공격 속도',rateW(sec))}${ch('rng','사거리',rangeW(st.range))}${extra}${st.fear<1?ch('rate','북소리','−'+Math.round((1-st.fear)*100)+'%'):''}${ch('air','하늘','✓')}</div><p class="sub">${sk}</p>`;}
     const T0=L2.tiers[t.tier-1];return`<div class="r1"><span class="nm">${T0.name}</span><span class="tag">${L2.name} ${t.tier}단계</span>${bd}</div><div class="chips">${ch(t.line==='levi'?'holy':'atk','공격',r(st.s.dmg*st.dm))}${ch('rate','공격 속도',rateW(sec))}${ch('rng','사거리',rangeW(st.range))}${t.line==='art'?ch('atk','범위',r(st.s.aoe||0)):''}${st.fear<1?ch('rate','북소리','−'+Math.round((1-st.fear)*100)+'%'):''}${ch('air','하늘',L2.air?'✓':'✕')}</div><p class="sub">${L2.desc}</p>`;}
-  if(T.k==='hero'){const h=o,D=h.D;return`<div class="r1"><span class="nm">${D.name}</span><span class="tag">${D.line} 영웅 · Lv ${h.lv}</span>${hpHtml(h.hp,h.max)}</div><div class="chips">${ch(D.melee?'atk':(h.kind==='caleb'?'atk':'holy'),'공격',r(h.dmg))}${ch('rate','공격 속도',rateW(D.rate))}${ch('rng','사거리',D.melee?'근접':rangeW(D.range))}${ch('def','방어',armorW(h.armor))}${ch('re','다시 일어남','15초')}</div><p class="say">${D.say}<small>${D.sayRef}</small></p>`;}
+  if(T.k==='hero'){const h=o,D=h.D;return`<div class="r1"><span class="nm">${D.name}</span><span class="tag">${D.line} 영웅 · Lv ${h.lv}</span>${hpHtml(h.hp,h.max)}</div><div class="chips">${ch(D.melee?'atk':(h.kind==='caleb'?'atk':'holy'),'공격',r(h.dmg))}${ch('rate','공격 속도',rateW(D.rate))}${D.sling?ch('atk','물매',r(D.sling.dmg*h.dmg/D.dmg)):''}${ch('rng','사거리',D.sling?'근접 · 물매 '+rangeW(D.sling.range):D.melee?'근접':rangeW(D.range))}${ch('def','방어',armorW(h.armor))}${ch('re','다시 일어남','15초')}</div><p class="say">${D.say}<small>${D.sayRef}</small></p>`;}
   if(T.k==='unit'){const u=o,gk=u.gk,itt=u.look==='ittai',help=u.look==='help'||itt,nm=gk?'성막 문지기':itt?'가드 사람 잇대':help?'세 겹 줄 장정':u.naz?'나실인':LINES.shep.tiers[u.tw.tier-1].name,tg=gk?'제사장이 세움':itt?'다윗이 풀어 준 사람 (삼하 15:21)':help?'플레이어 기술':u.naz?'양치기 4단계':'양치기 '+u.tw.tier+'단계';
     const re=gk?ch('re','다시 섬',r(gateRe(u.tw))+'초'):help?ch('re','남은 시간',Math.max(0,Math.ceil(u.life))+'초'):ch('re','다시 섬',(has('shep',3)?7:10)+'초');
     return`<div class="r1"><span class="nm">${nm}</span><span class="tag">${tg}</span>${hpHtml(u.hp,u.max)}</div><div class="chips">${ch('atk','공격',r(u.dmg))}${ch('def','방어',armorW(u.armor))}${re}${u.two?ch('def','막는 적','둘'):''}</div><p class="sub">${u.naz?u.vow:help?'길 위를 누르거나 쓸면 옮겨 가요.':'파랗게 칠한 길 위를 누르거나 원하는 쪽으로 쓸면 옮겨 가요.'}</p>`;}

diff --git a/_art/새그림13작성.py b/_art/새그림13작성.py
@@ -93,3 +93,15 @@ items_e = [
 ]
 json.dump({"출력": "raw", "크기": [1024, 1024], "단계": 4, "항목": items_e}, open('새그림13e.json', 'w', encoding='utf-8'), ensure_ascii=False, indent=1)
 print('13e', len(items_e), '항목')
+
+# 13f(10-15 사용자: "13, 14화 삽화에 팔과 손이 이상하다"): 사람 수를 줄이고 사람마다 손이 어디 있는지 정해 준다. 손이 또렷이 보이는 큰 인물만 앞에, 군중은 멀리 작게
+HANDS = " Hands are drawn simply and clearly, each hand with four fingers and a thumb, and no hand overlaps another person."
+items_f = [
+    scene("s13a", f"on a hillside field at dusk, a large flat rock with a bright tall flame of fire shooting up from it high into the evening sky, nothing else on the rock; a married Israelite couple, Manoah with a short brown beard in a brown wool robe and his wife in a blue robe and headscarf, kneel side by side in front of the rock and bow down low with their foreheads to the grass, both of their hands placed flat on the grass in front of their heads; {LIGHT}; awe and worship." + HANDS, seeds=(3, 4, 5, 6)),
+    scene("s13f", "in a broad valley of ripe golden wheat at harvest, three Israelite reapers of Beth-shemesh in plain tunics and headcloths stand in the wheat by the road and smile with great joy; each reaper holds one small curved sickle up in his right hand and keeps his left hand down at his side; nobody wears glasses; on the road a pair of two brown milk cows side by side under one wooden yoke pull a new wooden cart by themselves; on the cart rides a box completely covered with a plain blue cloth; bright happy summer light; no other animals." + HANDS, seeds=(6, 7, 8, 9)),
+    scene("s13g", f"on the top of the hill of Mizpah beside a simple altar of rough uncut stones, {SAMUEL}, stands with both hands lifted up to heaven; in the foreground three Israelites kneel and each pours water from a clay jar held with both hands onto the ground in sorrow; behind them a crowd of {ISRAEL} stand with their hands folded in prayer; far away in the hazy western plain below, small dust clouds of a marching army; solemn and hopeful." + HANDS + NOIDOL, seeds=(3, 4, 5, 6)),
+    scene("v13a", f"dark storm clouds over a western hillside; bright lightning and great thunder flash from the clouds; in the foreground five Philistine soldiers in tall feathered headdresses run away down the hill in panic, each holding a round shield on his left arm and his right arm swinging; behind them many small far-away soldiers also flee; nobody is struck and nobody is hurt; on the hilltop beside a small stone altar with smoke, {SAMUEL}, stands with both hands raised to heaven." + HANDS + NOIDOL, seeds=(3, 4, 5, 6)),
+    scene("v13c", "a wide peaceful landscape of terraced fields at harvest time; in the foreground two Israelite children carry golden sheaves of grain hugged in both arms, and a girl holds a woven basket by its handle with both hands, all laughing; a few adults reap in the background; far in the background on a green hill stands one big upright memorial stone; along a dirt road an old prophet with long white hair walks holding a wooden staff in his right hand; bright, safe and happy summer day." + FLAT + HANDS + NOIDOL, seeds=(5, 6, 7, 8)),
+]
+json.dump({"출력": "raw", "크기": [1024, 1024], "단계": 4, "항목": items_f}, open('새그림13f.json', 'w', encoding='utf-8'), ensure_ascii=False, indent=1)
+print('13f', len(items_f), '항목')

diff --git a/_art/새그림14작성.py b/_art/새그림14작성.py
@@ -97,3 +97,13 @@ items_e = [
 ]
 json.dump({"출력": "raw", "크기": [1024, 1024], "단계": 4, "항목": items_e}, open('새그림14e.json', 'w', encoding='utf-8'), ensure_ascii=False, indent=1)
 print('14e', len(items_e), '항목')
+
+# 14f(10-15 사용자: "13, 14화 삽화에 팔과 손이 이상하다"): 사람마다 손이 어디 있는지 정해 주고, 군중은 멀리 작게
+HANDS = " Hands are drawn simply and clearly, each hand with four fingers and a thumb, and no hand overlaps another person."
+items_f = [
+    scene("s14a", f"in the town of Ramah, four gray-bearded Israelite elders in robes stand in a row before {SAMUEL}, who sits on a stone bench with both hands resting on his knees and a sad troubled face; only the front elder holds out both open hands toward Samuel, asking for a king; the other three elders hold their hands together in front of their robes; serious mood." + FLAT + HANDS, seeds=(5, 6, 7, 8)),
+    scene("s14b", f"on a quiet hilltop path at early morning, {SAMUEL}, holds a small clay flask with both hands and pours a thin stream of oil onto the head of a very tall handsome young Israelite man with a short dark beard in a plain brown traveling cloak, who bows his head with both hands hanging down at his sides; two donkeys graze nearby; peaceful, solemn and hopeful." + HANDS, seeds=(3, 4, 5, 6)),
+    scene("s14g", f"on a ridge above the Valley of Elah, {DAVID}, has just arrived carrying a basket of bread loaves with both hands and looks down into the valley; below by a shallow brook stands {GOLIATH}, holding his spear in his right hand, with {BEARER}, shouting up the hill; a few small Israelite soldiers far down on the near slope step back afraid, holding spears upright; on the far hill across the valley stand distant ranks of small Philistine soldiers; tense but child-friendly." + HANDS + NOIDOL, seeds=(3, 4, 5, 6)),
+]
+json.dump({"출력": "raw", "크기": [1024, 1024], "단계": 4, "항목": items_f}, open('새그림14f.json', 'w', encoding='utf-8'), ensure_ascii=False, indent=1)
+print('14f', len(items_f), '항목')

diff --git a/기획서.md b/기획서.md
@@ -128,14 +128,14 @@
 | 구분 | 노아 | 모세 | 갈렙 | 다윗 |
 | --- | --- | --- | --- | --- |
 | 계열 · 합류 | 장인 · 1 방주 | 레위인 · 5 미디안 우물 | 파수꾼 · 8 에드레이 | 양치기 · 14 엘라 골짜기 |
-| 역할 | 광역 제어, 장인 탑 지원 | 탑 강화, 회복 | 원거리 딜러 | 근접으로 막기, 기절 |
-| 체력 · 이동 | 높음 · 느림 | 낮음 · 보통 | 중간 · 매우 빠름 | 중간 · 보통 |
-| 기본 공격 | 망치 (근접) | 거룩한 빛 (원거리, 하늘 가능) | 활 (원거리, 하늘 가능) | 지팡이 근접 + 물매 |
-| 특성 | 고페르 나무(창 6:14): 한자리에 머물면 나무 방벽을 세워 적을 하나 더 막는다 | 빛나는 얼굴(출 34:29): 곁에 있는 탑의 사거리가 늘어난다 | 정탐(민 13): 멀리 찍어도 순간이동에 가깝게 달려간다 | 가드 사람 잇대(삼하 15:19–21): 직접 풀어 준 적이 확률로 잠깐 아군이 된다 |
-| 기술 | 역청을 칠하라(창 6:14): 바닥의 적이 느려지고 받는 피해 증가 | 반석의 물(출 17:6): 주변 아군 회복 | 이 산지를 내게 주소서(수 14:12): 가장 강한 적에게 표적, 받는 피해 증가 | 물매: 멀리 있는 적 기절 |
-| 기술 | 비둘기와 감람나무 잎(창 8:11): 주변 아군 회복 | 늧뱀(민 21:8–9): 멈춘 근처 탑을 저절로 풀어 줌 | 그들을 두려워하지 말라(민 14:9): 주변 탑과 병사의 두려움과 기절을 풀고 공격 속도 증가 | 수금(삼상 16:23): 주변 적의 줄이 느슨해져 약해지고, 사울은 잠깐 멈춤 |
-| 패시브 | 장인의 손: 곁의 장인 계열 탑 공격 속도 증가 | 중보(출 32:11): 주변 아군이 받는 피해 감소 | 여전히 강건하니(수 14:11): 체력이 낮을수록 공격 속도 증가 | 여호와의 이름으로(삼상 17:45): 두려움과 고함에 기절하지 않음 |
-| 궁극기 | 짐승들이 둘씩(창 7:9): 짐승 떼가 길을 거슬러 달려 땅의 적을 밀어내고 기절 | 손을 들다(출 17:11–12): 모든 탑 강화, 단계가 오르면 아론과 훈이 팔을 받쳐 시간 연장 | 능히 이기리라(민 13:30): 넓은 범위에 화살비 | 매끄러운 돌 다섯(삼상 17:40): 가장 강한 적 다섯에게 차례로 큰 돌 |
+| 역할 | 광역 제어, 장인 탑 지원 | 탑 강화, 회복 | 원거리 딜러 | 막기(셋까지)와 물매, 큰 적 사냥 |
+| 체력 · 이동 | 높음 · 느림 | 낮음 · 보통 | 중간 · 매우 빠름 | 높음 · 보통 |
+| 기본 공격 | 망치 (근접) | 거룩한 빛 (원거리, 하늘 가능) | 활 (원거리, 하늘 가능) | 막대기 근접 + 물매(막는 중에도, 230, 하늘 가능) |
+| 특성 | 고페르 나무(창 6:14): 한자리에 머물면 나무 방벽을 세워 적을 하나 더 막는다 | 빛나는 얼굴(출 34:29): 곁에 있는 탑의 사거리가 늘어난다 | 정탐(민 13): 멀리 찍어도 순간이동에 가깝게 달려간다 | 사자와 곰도 쳤은즉(삼상 17:34–36): 셋까지 막으며 물매를 던지고, 물매와 막대기는 큰 적에게 두 배, 물맷돌은 가끔 이마에 박힌다. 직접 풀어 준 적이 가끔 잠깐 아군이 된다(가드 사람 잇대, 삼하 15:19–21) |
+| 기술 | 역청을 칠하라(창 6:14): 바닥의 적이 느려지고 받는 피해 증가 | 반석의 물(출 17:6): 주변 아군 회복 | 능히 이기리라(민 13:30): 가장 강한 적에게 표적, 받는 피해 증가 | 이마에 박히매(삼상 17:49): 멀리 있는 가장 강한 적에게 큰 돌, 기절 |
+| 기술 | 비둘기와 감람나무 잎(창 8:11): 주변 아군 회복 | 늧뱀(민 21:8–9): 멈춘 근처 탑을 저절로 풀어 줌 | 그들을 두려워하지 말라(민 14:9): 주변 탑과 병사의 두려움과 기절을 풀고 공격 속도 증가 | 수금(삼상 16:23): 주변 아군 회복, 주변 적의 줄이 느슨해져 약해지고, 사울은 잠깐 멈춤 |
+| 패시브 | 장인의 손: 곁의 장인 계열 탑 공격 속도 증가 | 중보(출 32:11): 주변 아군이 받는 피해 감소 | 여전히 강건하니(수 14:11): 체력이 낮을수록 공격 속도 증가 | 여호와의 이름으로(삼상 17:45): 두려움과 고함에 기절하지 않고 받는 피해 감소 |
+| 궁극기 | 짐승들이 둘씩(창 7:9): 짐승 떼가 길을 거슬러 달려 땅의 적을 밀어내고 기절 | 손을 들다(출 17:11–12): 모든 탑 강화, 단계가 오르면 아론과 훈이 팔을 받쳐 시간 연장 | 이 산지를 내게 주소서(수 14:12): 넓은 범위에 화살비(10-15 사용자: 화살이 쏟아지는 궁극기에 더 힘 있는 이름) | 매끄러운 돌 다섯(삼상 17:40): 가장 강한 적 다섯에게 차례로 큰 돌 |
 | 하나님의 사람 | 은혜를 입고 하나님과 동행한 사람(창 6:8–9). 모두가 비웃을 때에도 명하신 대로 다 준행했다(6:22) | 하나님이 얼굴을 마주하여 아신 사람(신 34:10). 온유했고(민 12:3) 백성을 위해 중보했다(출 32:32) | 여호와를 온전히 따른 사람(민 14:24). 여든다섯에도 "이 산지를 내게 주소서"(수 14:12) | 하나님의 마음에 맞는 사람(행 13:22). 넘어졌을 때 회개할 줄 알았다(시 51) |
 | 예수님 찾기 | 구원의 문은 하나뿐(요 10:9) | "나와 같은 선지자"(신 18:15) | 이방 계열이 유다의 대표가 됨(민 32:12, 엡 2:19) | 우리 대신 싸워 이긴 참 다윗 |
 
@@ -652,7 +652,7 @@
   - 누를 것은 두지 않는다(11처럼). 골리앗을 쓰러뜨리는 손맛은 플레이어에게 주고, 그날 골리앗을 쓰러뜨린 것이 무엇이었는지는 승리 연출이 말한다. 6 홍해의 바로, 8 에드레이의 옥처럼 보스를 물리치는 것은 게임적 허용이고(기획서 '신학 원칙'), 승리 그림 만화와 승리 화면의 말씀이 구원하신 분을 밝힌다.
 - 새 영웅, 다윗(양치기 계열, 기획서 '하나님의 사람' 표대로): 13→14 이야기의 s14e에서 열린다. 이 판에서는 다윗만 나가고(7 르비딤의 여호수아처럼 영웅 고르기 칸에 다윗 하나와 "이 판은 다윗이 나가요"), 15부터는 넷 가운데 고른다.
   - 합류할 때 레벨 5(경험 2400)다. "주의 종이 아버지의 양을 지킬 때에 사자나 곰이 와서"(17:34). 기술 점수 넷은 물매 1·수금 1·여호와의 이름으로 2에 미리 놓고, 싸움 뒤 지도의 연단에서 다시 배치한다. 레벨이 스테이지 번호보다 낮으면 경험을 1.5배 받는 지금 규칙은 그대로다.
-  - 체력 270, 방어 0.15, 이동 66(보통), 근접 지팡이 16·0.9초. 막고 있지 않을 때는 물매로 160 안의 적을 친다(12·1.2초, 하늘의 적도 맞힘). 하늘의 적을 맞히는 영웅은 모세·갈렙·다윗이 된다.
+  - 체력 270, 방어 0.15, 이동 66(보통), 근접 지팡이 16·0.9초. 막고 있지 않을 때는 물매로 160 안의 적을 친다(12·1.2초, 하늘의 적도 맞힘). 하늘의 적을 맞히는 영웅은 모세·갈렙·다윗이 된다. **v1.11.1(10-15 사용자: "다른 영웅들에 비해 너무 약하다")에서 다시 짬: 아래 '남은 일' v1.11.1.**
   - 특성, 가드 사람 잇대(삼하 15:19–21): 다윗이 직접 풀어 준 적은 15% 확률로 6초 동안 다윗 편에 서서 그 자리를 막는다(세 겹 줄 장정처럼, 금빛 테두리. 보스·거인은 빼고).
   - 물매(삼상 17:40, 49): 10초마다 260 안에서 길을 가장 많이 온 적(하늘 포함)에게 큰 돌. 피해 35·55·75, 기절 1·1.5·2초(보스는 0.3초).
   - 수금(16:23): 16초마다 둘레 120·135·150 안 적의 줄이 느슨해져 5초 동안 받는 피해가 15·25·35% 늘고 공격이 30% 준다. 15 엔게디의 사울은 1·1.5·2초 멈춘다.
@@ -741,6 +741,7 @@
 - [x] 14 엘라 골짜기 설계(10-14 초안, 10-15 사용자: 골리앗은 탑으로 싸워 쓰러뜨리고 물맷돌과 구원 서사는 승리 연출에서, 나머지는 추천대로): 위 '14 ★ 엘라 골짜기 (v1.11) 설계안'. 길 시안(`_art/지도2.json`의 14, 탑 자리 17, 시내 `river`, 하늘길)과 설명 그림(`ref2/sketch14.png`). 다윗만 레벨 5로, 고함은 양치기 기절과 밤의 공포 둘, 골리앗이 쓰러지면 모든 줄이 끊어짐, 요나단은 고정 궁수, 숨은 이야기는 매끄러운 돌 다섯, 이야기 일곱 장, 승리 그림 만화 넷
 - [x] v1.10(10-15): 13 미스바. 열여덟 무리, 탑 자리 16, 시작 세겔 1100, 체력 배율 2.0(방패병 0.8), 피해 배율 1.75. 블레셋 겉모습(`skin:'philistine'`, `SKIN_PRE`의 b_: 창병·약탈병·방패병·백부장·궁수·북잡이·거인, 14에서도 씀). 준비 시간에 서쪽 하늘의 먹구름이 걷히고, 11번째 무리에 번제(7:9, 언덕 위 돌 단의 불), 물을 길어 붓는 백성 여섯(코드로 그림, 7:6), 14번째 무리부터 큰 우레(6초마다 1초 전 경고, 제단에 가장 가까이 온 땅의 적 둘레 48에 거룩한 피해 50, 2초 뒷걸음 '어지러워', 거인은 1초, 7:10). 18무리를 다 풀어 주면 에벤에셀 돌이 빛나고 누르면 세움(7.5초 뒤 저절로, 7:12) 뒤 승리 그림 만화. 나실인(양치기 4단계, 260세겔, 12를 지키면 열림): 서원한 병사(체력 200·피해 18·방어 0.15), 여호와의 영(삿 15:14, 12초마다 4~7초 동안 60% 빨리 치고 기절이 풀리며 그동안 기절하지 않음), 사자를 찢는 힘(삿 14:6, 거인·낙타 기병·보스에게 40~120% 더), 마지막 힘(삿 16:28, 쓰러질 때 한 번 체력 30~80%로 다시 일어남), 이름 대신 서원의 말씀(민 6:3·5·8, 암 2:11). 나실인이 붙잡은 거인은 고함을 못 지름. 사무엘(NPC). 숨은 이야기 밭 모퉁이의 이삭(누르면 이삭 줍는 사람, 룻 2). 두루마리(나실인, 사무엘, 아직 꺼지지 아니한 등불, 큰 우레와 에벤에셀, 블레셋 적 카드), 판 안 도움말, 소리(물 붓기, 번제 불, 우레, 돌 세우기). 그림(`_art/새그림13작성.py` → 새그림13~13e.json, `고르기_13.json`): bg13 시드 1(길 그대로. 하늘 안개에 뜬 탑 자리 5·11을 언덕 위 395,150·470,290으로, 제단은 그림의 돌 단 975,212로, 에벤에셀은 미스바와 뾰족 바위 사이 풀밭 625,340으로, 사무엘은 제단 앞 905,262로, 물 붓는 백성은 아래 풀밭으로). s13e는 등잔대가 초 다섯 촛대로 나와(13b에서는 셋, 13d에서는 아홉) 13d 시드 7을 참조로 바깥 가지 한 쌍만 지워 일곱 등잔으로 고침(13e 시드 3), s13f는 암소가 하나로 나와 멍에를 멘 두 마리로(13b 시드 4), s13c·v13c는 마을이 기와 박공지붕이라 평평한 지붕의 흙벽돌집으로(13c 시드 4) 다시 그림. 그림 파일 이름은 `새그림13작성.py`가 13·13b·13c·13d·13e.json을 만든다. 균형(`_bot.js`의 `planCore`·`PLAN13`·`run1314`: 핵심 탑 여섯을 3단계까지 올린 뒤 두 길이 만나는 곳의 양치기를 나실인으로, 탑 13개, 여섯 번 평균): 초안(거인 0.8, 세겔 1000)은 나실인으로도 크게 샘. 세겔 1100, 방패병 0.8, 거인 1.0으로 나실인을 쓰면 12.7, 안 쓰면 7.2
 - [x] v1.11(10-15): 14 엘라 골짜기. 다윗만(레벨 5로 합류, 물매·수금·여호와의 이름으로·매끄러운 돌 다섯), 열아홉 무리, 탑 자리 17, 시작 세겔 1200, 체력 배율 2.0(거인 0.8·방패병 0.85·골리앗 0.5), 피해 배율 1.8. 골리앗은 시내 가운데 결투터(740,560)에 서서 18초마다(위쪽 가운데 막대, 1.5초 전 팔을 듦) 고함: 둘레 210의 양치기·나실인·문지기·장정 1.6초 기절(다윗 곁 110과 여호와의 영이 든 나실인은 듣지 않음), 3번째 무리부터 밤의 공포 둘(하늘의 어둠, 체력 70·이동 46·방어 0.5, 고함에서 진영으로 길 3). 요나단(NPC, 절벽 위 455,292, 사거리 250·초당 26). 19번째 무리에 돌 다섯(다윗 궁극기가 바로 참)과 6초 뒤 골리앗이 방패 든 자를 앞세우고 여울(620,412)에서 나옴(체력 1500·방어 0.4·완악 0.3, 방패 든 자가 서 있는 동안 피해 절반, 9초마다 둘레 160의 고함과 밤의 공포 하나, 절반 아래면 1.4배 빨라짐, 등불 20). 골리앗이 쓰러지면 남은 적의 줄이 가까운 차례로 끊어지고 17:47 알림 뒤 승리 그림 만화 넷(첫 칸은 글 카드 '그날 엘라 골짜기에서 골리앗을 쓰러뜨린 것은 칼도 창도 아니었어요'). 사울(NPC, 15의 보스와 같은 사람). 숨은 이야기 매끄러운 돌 다섯. 보스 음악 boss4. 두루마리(다윗, 골리앗, 요나단, 중심을 보시는 하나님, 전쟁은 여호와께 속한 것, 밤의 공포), 판 안 도움말, 소리(고함, 물매, 돌, 쓰러짐, 수금, 요나단의 활). 그림(`_art/새그림14작성.py` → 새그림14·14b·14c·14d·14e.json, `고르기_14.json`): bg14 시드 1(길 그대로, 시내가 여울에서 길 밑으로 지나감. 요나단은 시냇물 속이 되어 오른쪽 둑 바위 522,272로, 탑 자리 15는 시냇물 속이라 왼쪽 둑 440,405로, 5는 블레셋 장막 위라 935,190으로). 다윗은 넷 모두 물매가 손에 없어서 물매(끈 둘과 돌을 담은 주머니)를 또렷이 다시 그림(14b 시드 6, 목자의 굽은 지팡이). s14a·s14d는 기와 박공지붕이라 평평한 지붕의 흙벽돌집으로(14c 시드 3·4), s14f는 수금이 류트로 나와 U자 틀의 수금으로(14c 시드 4), v14c는 골리앗이 갑옷 없이 나와 비늘 갑옷과 투구를 입은 채로(14c 시드 3). e_stones는 FLUX가 돌 수를 맞추지 못해(여섯·셋) 14d 시드 4의 돌 셋을 잘라 모래 위에 다섯을 한 줄로 합성(`_art/돌다섯합성.py` → raw\e_stones_s9_five00.png). 균형(`PLAN14`, 4단계 갈래까지 세겔을 다 씀, 탑 13개): 초안(골리앗 3000, 방패의 벽 14)은 모두 짐(골리앗이 여울에서 진영까지 650만 걸어 탑이 30쯤밖에 못 깎음). 골리앗 0.5·방어 0.4, 방패의 벽 10, 보스전 고함의 밤의 공포 하나로 평균 12.5(진 판 없음), 탑 11개는 넷 중 둘을 이김. 그림에 맞춰 탑 자리·요나단을 옮긴 뒤 여섯 번 평균 12.0(진 판 없음), 13 미스바도 다시 재어 12.3. 앱 1.11(21)
+- [x] v1.11.1(10-15 사용자: "다윗이 다른 영웅들에 비해 너무 약하다. 양치기 영웅이면 대인전에라도 뛰어난 강점이 있든지, 돌팔매질을 기가 막히게 잘하든지", "갈렙의 궁극기와 '이 산지를 내게 주소서'는 이름이 바뀌어야", "13, 14 삽화에 팔과 손이 이상하다"): 재 보니 같은 레벨 7·같은 기술 배분으로 14를 돌렸을 때 다윗 평균 7.7(영웅이 준 피해 7,400), 노아 10, 갈렙 14(12,500), 모세 19.3. 다윗은 막고 있을 때 물매를 못 던지고, 피해가 작고, 자주 쓰러졌다. 다윗을 물매의 명수이자 막는 영웅으로: 체력 270 → 330, 방어 0.15 → 0.25, 막대기 16 → 18, 이동 70, 적을 셋까지 함께 막고(`block`), 물매는 막는 중에도 던진다(230, 16·1.1초, 하늘 가능, 다섯 번에 한 번쯤 '이마에!' 두 배 반과 0.5초 기절). 특성은 '사자와 곰도 쳤은즉'(삼상 17:34–36): 물매와 막대기가 큰 적(거인·보스·낙타 기병·방패 든 자, `isBig`)에게 두 배. 가드 사람 잇대는 특성 설명에 덧붙여 그대로 둠('복은 모든 민족을 향한다'). 기술 '물매'는 기본 공격과 겹쳐 '이마에 박히매'(17:49)로: 10초마다 300 안의 가장 강한 적에게 큰 돌 45·70·100(레벨에 따라 오름), 기절 1.5·2·2.5초(보스 0.5초). 수금은 둘레 아군을 40·60·90 낫게 하고(16:23 '상쾌하여 낫고') 대기 16 → 14초. 여호와의 이름으로는 받는 피해 15·22·30% 감소를 더함. 매끄러운 돌 다섯은 피해가 레벨에 따라 오르고, 적이 다섯보다 적으면 남은 돌은 가장 강한 적에게. 영웅 정보 칸에 물매 피해와 사거리. 같은 조건(13을 체력 배율 2.4로 어렵게)에서 다윗 13.0(피해 20,100), 갈렙 8.0(14,200), 모세 3.3. 갈렙은 표적 기술을 '능히 이기리라'(민 13:30), 화살비 궁극기를 '이 산지를 내게 주소서'(수 14:12)로 맞바꿈. 14는 다윗이 세져 평균 18.8이 되어 체력 배율 2.0 → 2.3, 골리앗 0.5 → 0.39(체력 1350쯤)로 다시 맞춰 탑 13개 여덟 번 평균 14.3, 11개 넷 평균 12.5(진 판 없음). `index.html`의 `hurt()`에 영웅이 준 피해 `G.hdmg`, `_bot.js`에 `heroCmp`(같은 레벨로 영웅 비교). 삽화 21장을 원본 크기로 잘라 손과 팔을 하나씩 봄: 손가락이 뭉개지거나 손이 셋인 사람, 안경 쓴 사람(s13f), 손이 겹친 군중(s13g·v13a), 손이 없는 팔(s14b·s14g)이 있던 8장을 다시 그림(`새그림13f.json`·`새그림14f.json`): 사람 수를 줄이고 사람마다 손이 어디 있는지 정해 주고("each reaper holds one small curved sickle up in his right hand and keeps his left hand down"), 군중은 멀리 작게, 끝에 손 문구(네 손가락과 엄지, 다른 사람과 겹치지 않음). 고른 것: s13a 시드 6(엎드려 두 손을 풀밭에), s13f 시드 8, s13g 시드 5(셋이 두 손으로 항아리, 군중은 손을 모음), v13a 시드 4, v13c 시드 5(두 팔로 단을 안은 아이), s14a 시드 6, s14b 시드 6(두 손으로 기름병), s14g 시드 3(두 손으로 떡 바구니). 나머지 13장은 손이 괜찮아 그대로 둠. 앱 1.11.1(22)
 - [ ] 수치 균형: 세겔 수입, 탑과 적의 체력·피해, 대기 시간, 영웅 성장 곡선은 개발하면서 프로토타입에서 맞춘다
 - [x] 그림과 소리 방향: '그림과 소리'에 반영
 - [x] 목숨 이름과 패배 화면: 약속의 등불과 사 42:3. '핵심 게임 규칙'에 반영

diff --git a/README.md b/README.md
@@ -24,7 +24,7 @@
 | 5장 목동이 왕이 되다 | 14 엘라 골짜기 ★ | 삼상 17 | 다윗 합류(물매와 수금), 보스 골리앗과 방패 든 자, 골리앗의 고함(양치기 기절)과 밤의 공포(하늘의 적), 요나단(절벽 위 궁수), 사울, 골리앗이 쓰러지면 들판의 모든 줄이 끊어짐, 승리 만화의 물맷돌 |
 
 - 탑 4계열: 파수꾼(활), 양치기(병사), 레위인(마법), 장인(대포). 하늘의 적(11부터)은 파수꾼·레위인 계열과 순금 등잔대, 모세·갈렙만 맞힙니다. 레위인 4단계 제사장(성막 문지기를 세움)·찬양대, 장인 4단계 순금 등잔대, 파수꾼 4단계 요단 동편 용사, 양치기 4단계 나실인(13부터, 서원한 용사가 '여호와의 영'으로 잠깐 세짐).
-- 영웅: 노아, 모세, 갈렙(8 에드레이부터), 여호수아(7 르비딤에서만), 다윗(14 엘라 골짜기부터, 물매와 수금, 매끄러운 돌 다섯). 싸울수록 경험이 쌓여 **연단**되고, 레벨이 오르면 기술 점수로 기술을 키웁니다(롬 5:3–4).
+- 영웅: 노아, 모세, 갈렙(8 에드레이부터), 여호수아(7 르비딤에서만), 다윗(14 엘라 골짜기부터. 적을 셋까지 막으며 물매를 던지는 명수, 큰 적에게 두 배, 수금, 매끄러운 돌 다섯). 싸울수록 경험이 쌓여 **연단**되고, 레벨이 오르면 기술 점수로 기술을 키웁니다(롬 5:3–4).
 - 플레이어 기술: 부르짖음(시 50:15), 세 겹 줄(전 4:12). 양치기와 세 겹 줄 장정은 눌러서 직접 옮길 수 있습니다.
 - 두루마리(도감): 탑, 영웅, 적, 하나님이 하신 일, 예수님 찾기, 더 깊이 보기, 숨은 이야기(6 요셉의 유골, 8 옥의 철 침상, 9 라합의 붉은 줄, 10 기브온 큰 못의 물동이, 11 흰 나귀, 12 보리떡, 13 밭 모퉁이의 이삭, 14 매끄러운 돌 다섯. 싸움이 없는 구석의 물건을 누르면 업적과 카드가 열림).
 - 저장: 처음 화면에서 **시작하기**(새 이야기) · **계속하기**(이야기 3개까지, 필요 없는 이야기는 지울 수 있음) · 두루마리. 이야기마다 별·연단·별 강화를 따로 저장합니다.
